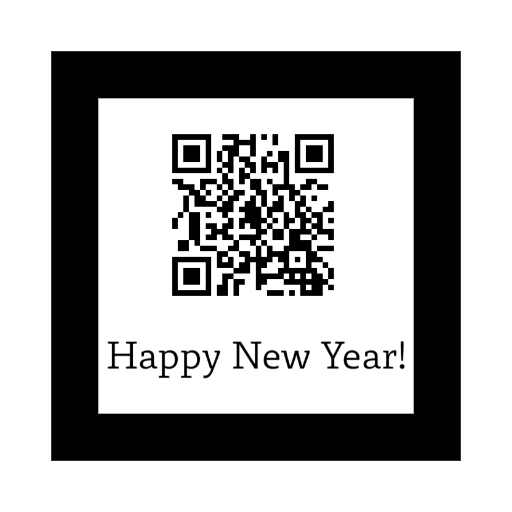
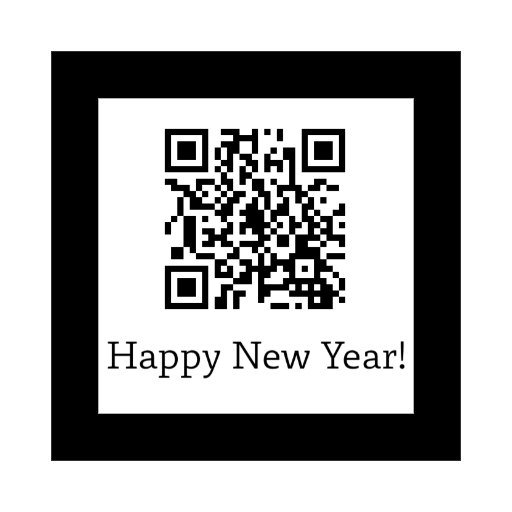
[Fix] Japanese -> English

Changed region(s): [[0.3125, 0.25, 0.6875, 0.625]]

diff --git a/index.html b/index.html
@@ -14,14 +14,14 @@
 
     <a-scene embedded arjs="debugUIEnabled:false; sourceType: webcam;" vr-mode-ui="enabled: false">
         <a-assets>
-            <a-asset-item id="inoshishi" src="models/Inoshishi.gltf"></a-asset-item>
+            <a-asset-item id="dog" src="models/Inoshishi.gltf"></a-asset-item>
         </a-assets>
 
         <a-marker preset='custom' type='pattern' url="marker/2019-iti-marker.patt">
-            <a-text value="あけましておめでとうございます！\n本年もよろしくお願いいたします！" position=" 0 0 1" align="center" rotation="-90 0 0" color="#DD4827">
+            <a-text value="Happy New Year!\n2019" position=" 0 0 1" align="center" rotation="-90 0 0" color="#DD4827">
             </a-text>
 
-            <a-entity gltf-model="#inoshishi" play-all-model-animations="" position="0 0 0" rotation="0 0 0" scale="0.0025 0.001 0.001" visible="true">
+            <a-entity gltf-model="#dog" play-all-model-animations="" position="0 0 0" rotation="0 0 0" scale="0.0025 0.001 0.001" visible="true">
                 <a-animation attribute="rotation" repeat="indefinite" direction="alternate" dur="500" from="0 0 0" to="10 0 0"></a-animation>
             </a-entity>
         </a-marker>
